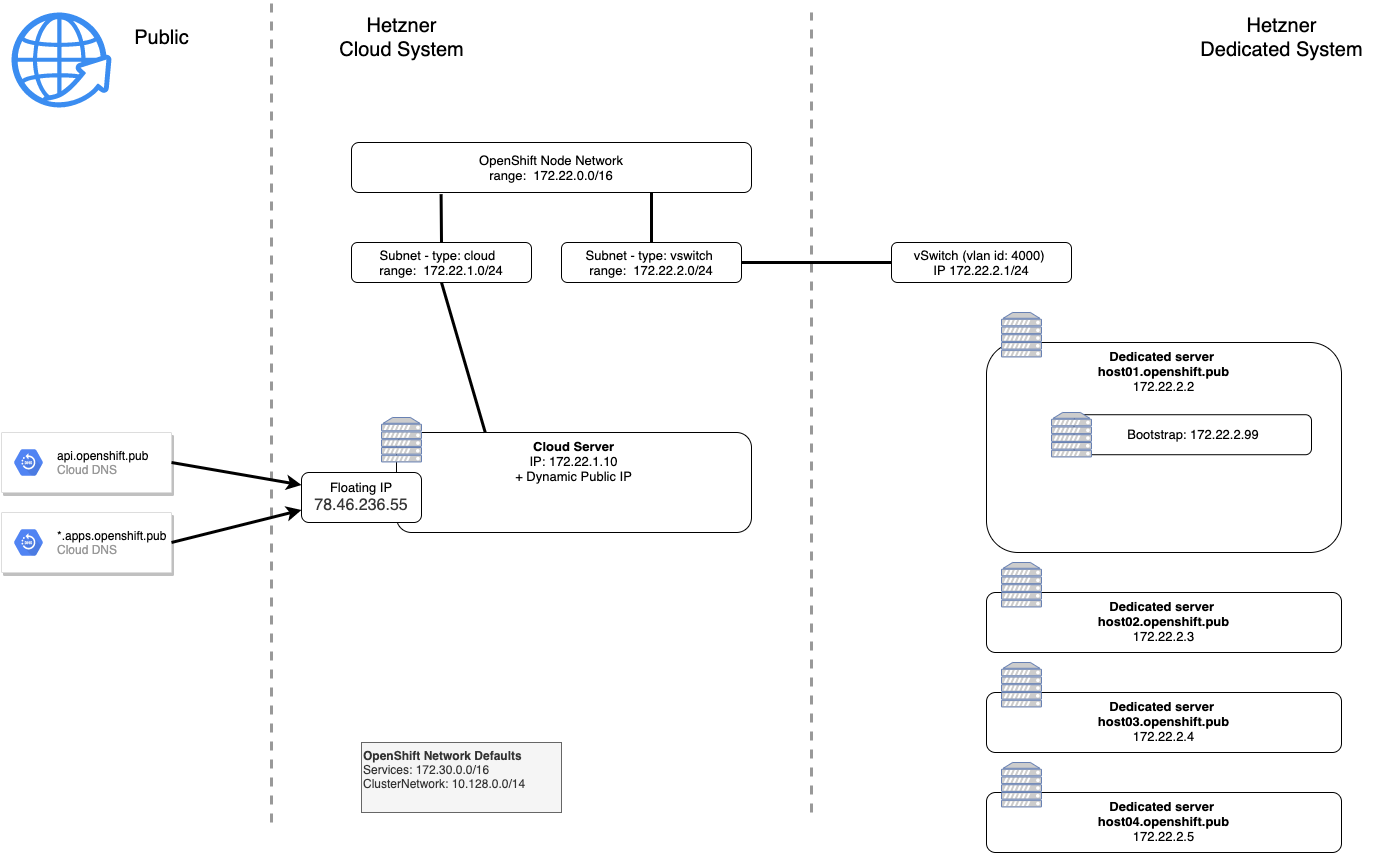
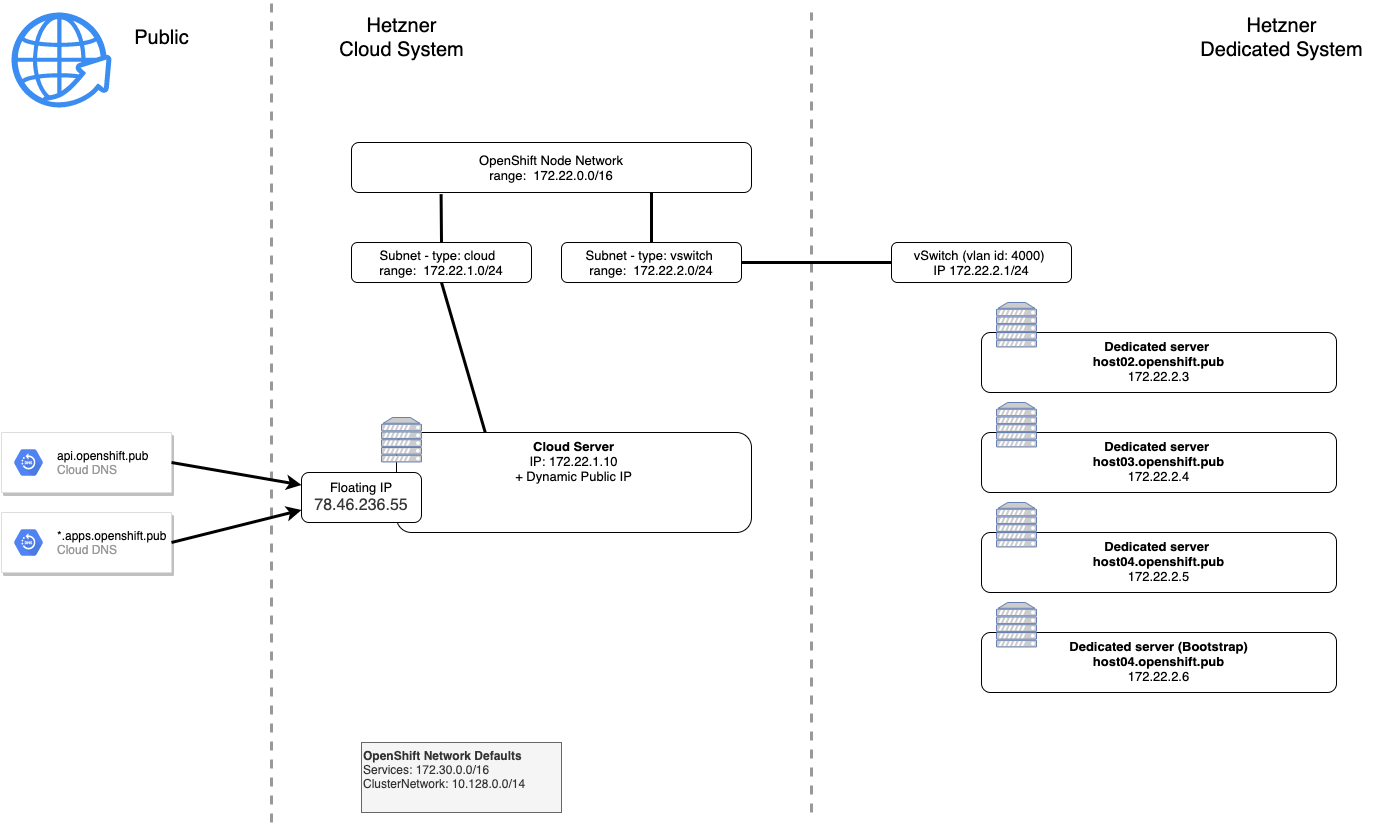
Switch bootstrap to baremetal

diff --git a/README.md b/README.md
@@ -50,13 +50,13 @@ TimeoutStartSec=5m
 ExecStartPre=-/usr/bin/podman rm "openshift-4-loadbalancer"
 ExecStartPre=/usr/bin/podman pull quay.io/redhat-emea-ssa-team/openshift-4-loadbalancer
 ExecStart=/usr/bin/podman run --name openshift-4-loadbalancer --net host \
-  -e API=bootstrap=172.22.2.99:6443,master-0=172.22.2.3:6443,master-1=172.22.2.4:6443,master-3=172.22.2.5:6443 \
+  -e API=bootstrap=172.22.1.6:6443,master-0=172.22.2.3:6443,master-1=172.22.2.4:6443,master-3=172.22.2.5:6443 \
   -e API_LISTEN=78.46.236.55:6443,172.22.1.10:6443 \
   -e INGRESS_HTTP=master-0=172.22.2.3:80,master-1=172.22.2.4:80,master-3=172.22.2.5:80 \
   -e INGRESS_HTTP_LISTEN=78.46.236.55:80,172.22.1.10:80 \
   -e INGRESS_HTTPS=master-0=172.22.2.3:443,master-1=172.22.2.4:443,master-3=172.22.2.5:443 \
   -e INGRESS_HTTPS_LISTEN=78.46.236.55:443,172.22.1.10:443 \
-  -e MACHINE_CONFIG_SERVER=bootstrap=172.22.2.99:22623,master-0=172.22.2.3:22623,master-1=172.22.2.4:22623,master-3=172.22.2.5:22623 \
+  -e MACHINE_CONFIG_SERVER=bootstrap=172.22.1.6:22623,master-0=172.22.2.3:22623,master-1=172.22.2.4:22623,master-3=172.22.2.5:22623 \
   -e MACHINE_CONFIG_SERVER_LISTEN=172.22.1.10:22623 \
   -e STATS_LISTEN=127.0.0.1:1984 \
   -e STATS_ADMIN_PASSWORD=aengeo4oodoidaiP \
@@ -114,6 +114,7 @@ Add to `/etc/hosts`
 172.22.2.3 master-0.compute.local
 172.22.2.4 master-1.compute.local
 172.22.2.5 master-3.compute.local
+172.22.2.6 bootstrap.compute.local
 ```
 
 
